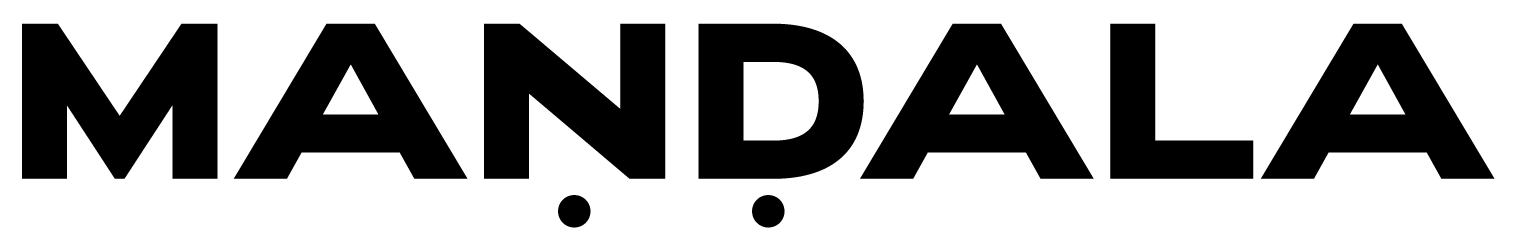
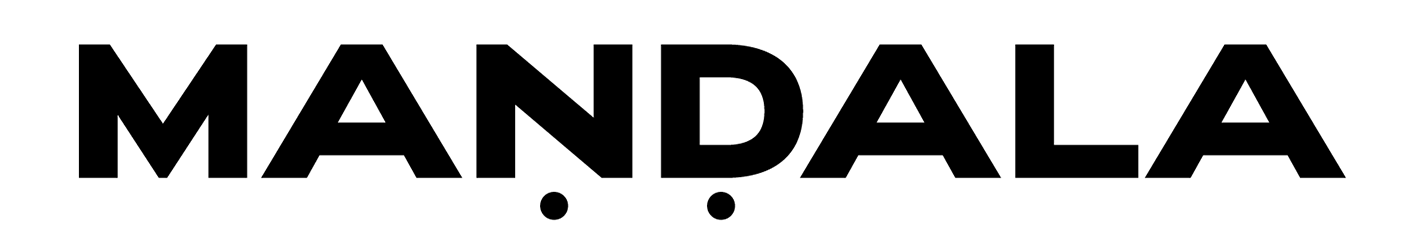
wider

Changed region(s): [[0.0, 0.0886, 1.0, 0.7679], [0.367, 0.7975, 0.4282, 0.9747], [0.4893, 0.7975, 0.5505, 0.9747]]

diff --git a/symposium/css/style.css b/symposium/css/style.css
@@ -36,9 +36,11 @@ a {color: black;}
 
 
  .container img {
-  height:13vw;
+  height:14vw;
   margin-bottom:-0.55vw;
  }
+
+ 
 
 
  .container .ticker-move-4 img {
@@ -54,7 +56,7 @@ a {color: black;}
     display: inline-block;
     position: relative;
     white-space: nowrap;
-    right:-35vw;
+    right:-38vw;
     animation-iteration-count: 3;
     animation-timing-function: linear;
     animation-name: ticker_1;
@@ -62,7 +64,7 @@ a {color: black;}
   }
 
    .ticker-stop-1 {
-    right:-35vw;
+    right:-38vw;
     animation: none;
   }
 
@@ -88,7 +90,7 @@ a {color: black;}
   display: inline-block;
     position: relative;
     white-space: nowrap;
-    right:-4.5vw;
+    right:-5.3vw;
     animation-iteration-count: 3;
     animation-timing-function: linear;
     animation-name: ticker_1;
@@ -97,7 +99,7 @@ a {color: black;}
 
 
 .ticker-stop-3 {
-    right:-4.5vw;
+    right:-5.3vw;
     animation: none;
   }
 
@@ -151,8 +153,8 @@ a {color: black;}
 
 .info-container p{ 
   padding: 0.8em 0;
-  font-size: 1.24em;
-  line-height: 1.9em;
+  line-height: 1.8em;
+  font-size: 1.15em;
 }
 
 .ticker-p {
@@ -160,10 +162,11 @@ a {color: black;}
   font-size: 0.85em;
   display: inline-block;
 
+
 }
 
 h2{ 
-  font-size: 1.8em;
+  font-size: 1.6em;
   line-height: 1.4em;
   padding: 4em 0 0em;
   color: #f82c00;
@@ -246,7 +249,11 @@ h5{
 
 /*--small laptop thru ipad mini--*/
 
-@media only screen and (max-width: 1200px) { .container img { margin-bottom:-1vw;}
+@media only screen and (max-width: 1200px) { .container img { margin-bottom:-0.65vw;} .info-container p{   font-size: 1em;} h2{ font-size: 1.4em;}
+@media only screen and (max-width: 1000px) { .container img { margin-bottom:-0.85vw;}}
+@media only screen and (max-width: 800px) { .container img { margin-bottom:-0.95vw;}}
+
+
 
 
 /*--all phone--*/
@@ -255,9 +262,7 @@ h5{
 @media only screen and (max-width: 700px){
 
   .container img {margin-bottom:-2vw;}
-  .container .ticker-move-4 img {height:13vw;
- }
-
+  .container .ticker-move-4 img {height:12vw;}
   .ticker-move-4 {right:-5.5vw;}
 
    @keyframes ticker_4 {
@@ -266,12 +271,8 @@ h5{
   }
   
 .info-container { width: 85%; font-size: 0.8em;}
-.top-container { 
-  margin-top: 30vw;
-}
-
+.top-container { margin-top: 42vw;}
 .ticker-p {font-size: 0.7em; display: block;text-align: center;}
-
 .title_01 { display: block; text-align: center; }
 
 h3{ text-align: center; padding-left:0%;}
